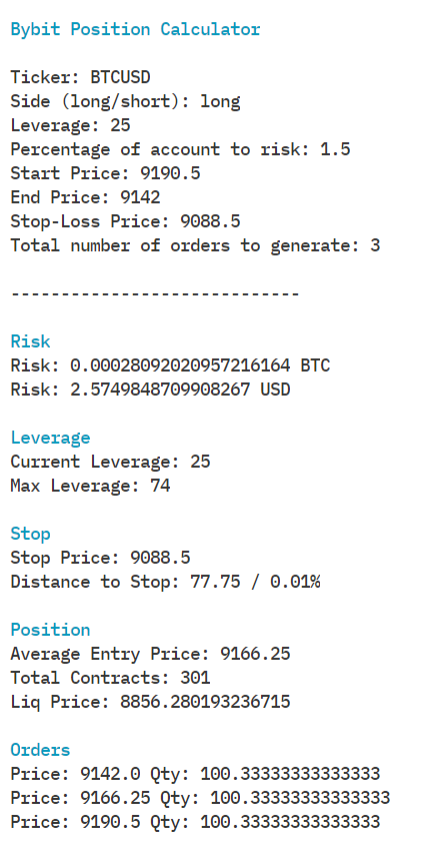
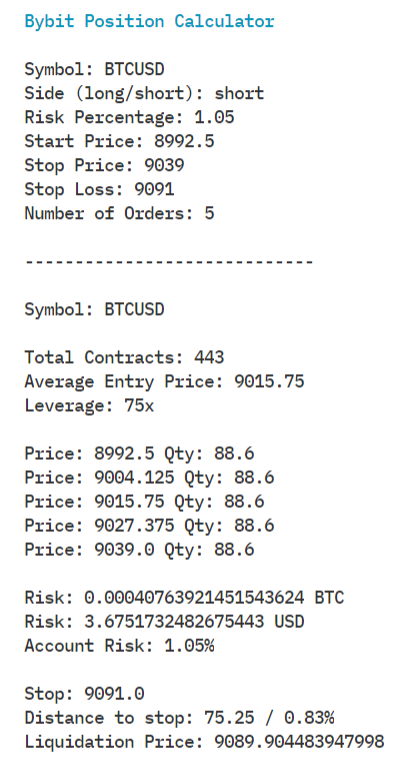
v1.2

diff --git a/calculator.py b/calculator.py
@@ -4,37 +4,23 @@ from exchange.bitmex import Bitmex
 
 
 class Calculator:
-    def __init__(self, balance, symbol, side, leverage, riskPercent, orderRange, stopLoss, numOfOrders):
+    def __init__(self, balance, symbol, side, riskPercent, orderRange, stopLoss, numOfOrders):
         """
         # Calculator
         
-        it does some cool things
-        
-        ## Parameters
-        
-        ```txt
-        balance         num
-        symbol          str
-        side            str
-        leverage        int
-        riskPercent     num
-        orderRange      [num, num]
-        stopLoss        num
-        numOfOrders     int
-        ```
+        `balance: num` `symbol: str` `side: str` `riskPercent: num`
+        `orderRange: [num, num]` `stopLoss: num` `numOfOrders: int`
         """
         
         # Check input
-        # TODO: this is ugly
         errors = []
+        
         if balance <= 0:
             errors.append("Balance must be greater than zero")
         if side == "LONG" or side == "SHORT":  
             pass
         else: 
-            errors.append("{} is not a valid entry for side".format(side))
-        if leverage < 1: 
-            errors.append("Leverage cannot be less than 1")
+            errors.append("`{}` is not a valid entry for side".format(side))
         if riskPercent < 0: 
             errors.append("You cannot risk less than zero percent of your total account")
         if orderRange[0] > orderRange[1]:
@@ -43,8 +29,8 @@ class Calculator:
             errors.append("Stop loss cannot be higher or within buying range")
         if side == "SHORT" and stopLoss < orderRange[1]:
             errors.append("Stop loss cannot be less than or within shorting range")
-        if numOfOrders < 3:
-            errors("Cannot generate less than 3 orders")
+        if numOfOrders < 2:
+            errors.append("Number of orders cannot be less than 2")
         
         if len(errors) != 0:
             print("Errors:")
@@ -53,7 +39,6 @@ class Calculator:
         self.balance = balance
         self.symbol = symbol
         self.side = side
-        self.leverage = leverage
         self.riskPercent = riskPercent
         self.orderRange = orderRange
         self.stopLoss = stopLoss
@@ -64,9 +49,11 @@ class Calculator:
         """
         # calculatePosition
         
-        calculates your position!
+        does some cool stuff
         
-        ## Example Return
+        ## Return
+        
+        `dict`
         
         ```json
         {
@@ -86,56 +73,44 @@ class Calculator:
         interval = (self.orderRange[1] - self.orderRange[0]) / (self.numOfOrders - 1)
         orderPrices = [self.orderRange[0] + (interval * i) for i in range(self.numOfOrders)]
         averagePrice = sum(orderPrices) / len(orderPrices)
-        riskAmountBase = (1 / averagePrice) * ((self.riskPercent * self.balance) / 100)
-        
-        # Liquidation Price
-        #   Verify liqPrice is not beyond stop price
-        liqPrice = Bybit.liqPrice(self.side, self.symbol, self.leverage, averagePrice)
-        if self.side == "LONG" and self.stopLoss < liqPrice:
-            raise Exception("Stop price cannot be lower than liquidation price.\nLiq Price: {}\nStop: {}".format(liqPrice, self.stopLoss))
-        if self.side == "SHORT" and self.stopLoss > liqPrice:
-            raise Exception("Stop price cannot be higher than liquidation price.\nLiq Price: {}\nStop: {}".format(liqPrice, self.stopLoss))
 
-        # Calculate the maximum leverage possible
-        #   The maximum amount of leverage able to be taken on a position until
-        #   the liquidation price goes beyond stop price.
-        maxLeverage = self.leverage
-        while True:
-            if self.side == "LONG":
-                liqPriceMaxLeverage = Bybit.liqPrice(self.side, self.symbol, maxLeverage, averagePrice)
-                if liqPriceMaxLeverage < self.stopLoss:
-                    maxLeverage += 1
-                else: break
-            if self.side == "SHORT":
-                liqPriceMaxLeverage = Bybit.liqPrice(self.side, self.symbol, maxLeverage, averagePrice)
-                if liqPriceMaxLeverage > self.stopLoss:
-                    maxLeverage += 1
-                else: break
+        riskAmount = (self.balance * self.riskPercent) / 100
+        riskAmountBase = (1 / averagePrice) * riskAmount
         
+        leverage = 1
+
+        # Calculate the maximum leverage
+        while True:
+            liqPrice = Bybit.liqPrice(self.side, self.symbol, leverage, averagePrice)
+            if self.side == "LONG" and liqPrice > self.stopLoss:
+                break
+            elif self.side == "SHORT" and liqPrice < self.stopLoss:
+                break
+            else:
+                leverage += 1
+        leverage -= 1
+                     
         # Calculate number of contracts
-        #   The number of contracts will keeping adding until the position's
-        #   unrealized profit/loss is equal or less than the amount of account 
-        #   willing to be risked or if the amount of contracts exceeds your 
-        #   account's balance.
         contracts = 1
         while True:
             unrealizedPL = abs(Bybit.unrealizedPL(self.side, contracts, averagePrice, self.stopLoss))
-            if (1 / averagePrice) * contracts > riskAmountBase:
+            if unrealizedPL > riskAmountBase:
                 break
-            if unrealizedPL < riskAmountBase:
+            else:
                 contracts += 1
-            else: break
+        contracts -= 1
 
         orders = [{"price":i, "qty": contracts / self.numOfOrders} for i in orderPrices]
+        balanceBase = (1 / averagePrice) * self.balance
+        riskPercentRC = (unrealizedPL * 100) / balanceBase 
         
         return {
             "ticker": [base, quote],
-            "leverage": self.leverage,
-            "maxLeverage": maxLeverage,
+            "leverage": leverage,
             "liqPrice": liqPrice,
             "orders": orders,
             "risk": unrealizedPL,
-            "riskPercent": 100 * ((100 * unrealizedPL) / ((1 / averagePrice) * self.balance)),
+            "riskPercent": riskPercentRC,
             "totalContracts": contracts,
             "averageEntryPrice": averagePrice
         }

diff --git a/main.py b/main.py
@@ -7,56 +7,49 @@ import os
 # Allows for color support in cmd.exe
 os.system("color 0")
 
-# TODO: fix this entire thing, its pretty much pointless
 # put your bybit account balance here
-config = {
-    # eventual support for multiple exchanges... Kappa
-    "Profile": {
-        "Bybit": {
-            "balanceUSD": 208
-        }
-    }
-}
+# ↓↓↓↓↓↓↓↓↓↓↓↓↓↓
+balanceUSD = 350
+# ↑↑↑↑↑↑↑↑↑↑↑↑↑↑
 
 
-# TODO: does colour really matter, get a web interface already...
-print("{}========================={}".format(Fore.LIGHTBLACK_EX, Style.RESET_ALL))
-print("Bybit Position Calculator".format(Fore.LIGHTCYAN_EX, Style.RESET_ALL))
-print("{}========================={}\n".format(Fore.LIGHTBLACK_EX, Style.RESET_ALL))
+print()
+print("{}Bybit Position Calculator{}".format(Fore.LIGHTCYAN_EX, Style.RESET_ALL))
+print()
 
 
 def enterValues():
-        # TODO: whats better, a class or a dictionary? idk
-    class Input:
-        ticker = input("Ticker: ").upper()
-        side = input("Side (long/short): ").upper()
-        leverage = int(input("Leverage: "))
-        riskPercent = float(input("Percentage of account to risk: "))
-        orderRange = [float(input("Start Price: ")), float(input("End Price: "))]
-        stopLoss = float(input("Stop-Loss Price: "))
-        numOfOrders = int(input("Total number of orders to generate: "))
-    return Input
+    values = {
+        "symbol": input("Symbol: ").upper(),
+        "side": input("Side (long/short): ").upper(),
+        "riskPercent": float(input("Risk Percentage: ")),
+        "orderRange": [float(input("Start Price: ")), float(input("Stop Price: "))],
+        "stopLoss": float(input("Stop Loss: ")),
+        "numOfOrders": int(input("Number of Orders: "))
+    }
+    return values
 
 
 while True:
     try: 
-        Input = enterValues()
+        values = enterValues()
+
+        calculator = Calculator(balanceUSD, values["symbol"], values["side"], 
+                                values["riskPercent"], values["orderRange"], 
+                                values["stopLoss"], values["numOfOrders"])
+                               
+        position = calculator.calculatePosition()
         break
     except Exception as e:
         print("{}{}{}".format(Fore.RED, e, Style.RESET_ALL))
-    
-calculator = Calculator(config["Profile"]["Bybit"]["balanceUSD"],
-                        Input.ticker, Input.side, Input.leverage, Input.riskPercent, Input.orderRange,
-                        Input.stopLoss, Input.numOfOrders)
-position = calculator.calculatePosition()
 
 
 print("\n-----------------------------\n")
-print("Symbol: {}".format(Input.ticker))
+print("Symbol: {}".format(values["symbol"]))
 print()
 print("Total Contracts: {}".format(position["totalContracts"]))
 print("Average Entry Price: {}".format(position["averageEntryPrice"]))
-print("Maximum Leverage: {}".format(position["maxLeverage"]))
+print("Leverage: {}x".format(position["leverage"]))
 print()
 [print("Price: {} Qty: {}".format(i["price"], i["qty"])) for i in position["orders"]]
 print()
@@ -64,7 +57,7 @@ print("Risk: {} {}".format(position["risk"], position["ticker"][0]))
 print("Risk: {} USD".format(position["risk"] * position["averageEntryPrice"]))
 print("Account Risk: {:.2f}%".format(position["riskPercent"]))
 print()
-print("Stop: {}".format(Input.stopLoss))
-print("Distance to stop: {} / {:.2f}%".format(abs(position["averageEntryPrice"] - Input.stopLoss), 100 * (abs(position["averageEntryPrice"] - Input.stopLoss) / Input.stopLoss)))
+print("Stop: {}".format(values["stopLoss"]))
+print("Distance to stop: {} / {:.2f}%".format(abs(position["averageEntryPrice"] - values["stopLoss"]), 100 * (abs(position["averageEntryPrice"] - values["stopLoss"]) / values["stopLoss"])))
 print("Liquidation Price: {}".format(position["liqPrice"]))
 exit()

diff --git a/exchange/bybit.py b/exchange/bybit.py
@@ -42,15 +42,13 @@ class Bybit:
         """
         # Initial Margin
         
+        `Initial Margin = Contracts / (AveragePrice * Leverage)`
+        
         https://help.bybit.com/hc/en-us/articles/360007133254-Initial-Margin
         
         ## Parameters
         
-        ```txt
-        contracts       int
-        averagePrice    num
-        leverage        int
-        ```
+        `contracts: int` `averagePrice: num` `leverage: int`
         
         ## Return
         
@@ -69,9 +67,7 @@ class Bybit:
 
         ## Parameters
         
-        ```txt
-        ticker  str
-        ```
+        `ticker: str`
         
         ## Return
         
@@ -87,6 +83,10 @@ class Bybit:
         `Maintenance Margin = (Contracts / Order Price) * Maintenance Margin Rate`
         
         https://help.bybit.com/hc/en-us/articles/360007133274-Maintenance-Margin
+        
+        ## Paramters
+        
+        `ticker: str` `contracts: int` `averagePrice: num`
         
         ## Return
         
@@ -107,12 +107,7 @@ class Bybit:
 
         ## Parameters
         
-        ```txt
-        side            str
-        ticker          str
-        leverage        int
-        averagePrice    num
-        ```
+        `side: str` `ticker: str` `leverage: int` `averagePrice: num`
         
         ## Return
         
@@ -127,24 +122,28 @@ class Bybit:
         return lp
 
     @staticmethod
-    def unrealizedPL(side, contracts, averagePrice, lastPrice):
+    def unrealizedPL(side, contracts, averagePrice, closePrice):
         """
         # Unrealized Profit/Loss
         
-        Long Position: `UPL = contracts * ((1 / averagePrice) - (1 / lastPrice))`
+        Long Position: `UPL = contracts * ((1 / averagePrice) - (1 / closePrice))`
         
-        Short Position: `UPL = contracts * ((1 / lastPrice) - (1 / averagePrice))`
+        Short Position: `UPL = contracts * ((1 / closePrice) - (1 / averagePrice))`
 
         https://help.bybit.com/hc/en-us/articles/360013263213-Calculation-of-Unrealized-Profit-Loss
 
-        Return
-        ------
-            float
+        ## Paramters
+        
+        `side: str` `contracts: int` `averagePrice: num` `closePrice: num`
+        
+        ## Return
+        
+        `float`
         """
         if side == Bybit.SIDE_LONG:
-            pl = contracts * ((1 / averagePrice) - (1 / lastPrice))
+            pl = contracts * ((1 / averagePrice) - (1 / closePrice))
         elif side == Bybit.SIDE_SHORT:
-            pl = contracts * ((1 / lastPrice) - (1 / averagePrice))
+            pl = contracts * ((1 / closePrice) - (1 / averagePrice))
         else:
             raise Exception("param [side] not valid")
         return pl

diff --git a/README.md b/README.md
@@ -1,18 +1,25 @@
-# position-calculator
+# trade-manager
 
-Currently only supports [Bybit](https://www.bybit.com) exchange.
+Tool used to generate new positions on [Bybit](https://www.bybit.com). Calculates maximum leverage and orders to be placed using a user defined range and a user defined stop loss.
 
-![example_cmd](example_cmd.png)
+To use enter your account balance in `main.py`
 
-## Usage
+## Info
 
-Enter your Bybit account balance in `main.py`
+`Symbol` Ticker name, only tickers on Bybit are supported ex. "BTCUSD", "XRPUSD"
 
-## Run
+`Side` Generate a long or short position (enter "long" or "short")
 
-Run in cmd using
+`Risk Percentage` This is the percentage of your account you want to risk.
 
-```powershell
-cd "...\position-calculator\"
-py main.py
-```
+`Start Price` Price to start longing or shorting at
+
+`Stop Price` Price to stop longing or shorting at
+
+`Stop Loss` Stop loss price
+
+`Number of Orders` The number of orders to be generated within your longing or shorting range.
+
+## Example
+
+![example](example_cmd.png)
